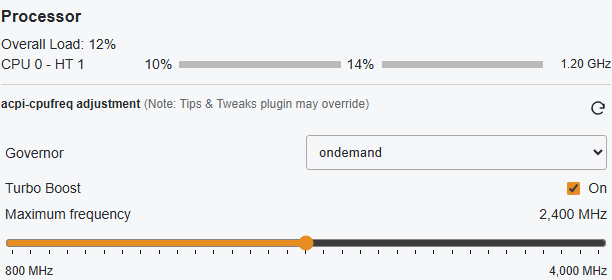
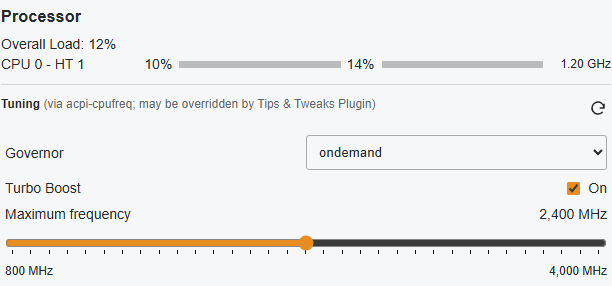
Refine Tuning heading and restore modest bottom padding

diff --git a/src/styles/power-mode.css b/src/styles/power-mode.css
@@ -1,5 +1,5 @@
 /* SPDX-License-Identifier: GPL-2.0-only */
-#dashboard-power-mode .dpm-body { padding: 4px 4px 0; white-space: normal; }
+#dashboard-power-mode .dpm-body { padding: 4px 4px 6px; white-space: normal; }
 #dashboard-power-mode button { cursor: pointer; margin: 0; }
 #dashboard-power-mode button:disabled { cursor: default; }
 #dashboard-power-mode .tile-header { display: flex; justify-content: space-between; align-items: flex-start; gap: 8px; }
@@ -29,5 +29,5 @@
 .dpm-cpu-metric > .usage-disk { flex: 1 1 auto; min-width: 10px; width: auto !important; margin: 0 !important; }
 .dpm-cpu-ghz { flex: 0 0 8ch; font-size: 12px; text-align: right; white-space: nowrap; font-variant-numeric: tabular-nums; }
 
-#dashboard-power-mode [data-dpm="hardware"] { font-weight: bold; }
+#dashboard-power-mode .dpm-heading strong { font-weight: bold; }
 .dpm-adjustments-row > td { padding-bottom: 0 !important; }

diff --git a/src/javascript/power-mode.js b/src/javascript/power-mode.js
@@ -65,7 +65,7 @@
     const message = (text) => { el('message').textContent = text; el('message').hidden = !text; };
     function render(next) {
       state = next;
-      el('hardware').textContent = next.drivers.length ? `${next.drivers.join(', ')} adjustment` : 'CPU adjustment';
+      el('hardware').textContent = next.drivers.length ? `via ${next.drivers.join(', ')}` : 'via CPU frequency driver';
       el('governor').replaceChildren();
       if (next.governor === null) el('governor').add(new Option('Mixed / unavailable', '', true, true));
       next.governors.forEach((governor) => el('governor').add(new Option(governor, governor, false, next.governor === governor)));

diff --git a/tests/dashboard.py b/tests/dashboard.py
@@ -86,12 +86,12 @@ with sync_playwright() as p:
     assert not posts
     expect(message).to_be_hidden()
     notice = card.locator('[data-dpm="conflict"]')
-    expect(notice).to_have_text('(Note: Tips & Tweaks plugin may override)')
+    expect(notice).to_have_text('; may be overridden by Tips & Tweaks Plugin')
     expect(notice).to_be_visible()
     assert card.locator('.dpm-heading [data-dpm="conflict"]').count() == 1
     assert card.locator('.tile-header-right-controls [data-dpm="refresh"]').count() == 1
     assert card.locator('.dpm-body [data-dpm="refresh"], .dpm-warning').count() == 0
-    expect(card.locator('[data-dpm="hardware"]')).to_have_text('acpi-cpufreq adjustment')
+    expect(card.locator('[data-dpm="hardware"]')).to_have_text('via acpi-cpufreq')
     assert card.evaluate('el => el.closest("tbody").id') == 'synthetic-processor'
     assert page.locator('tbody#dashboard-power-mode').count() == 0
     expect(page.locator('.dpm-cpu-ghz[data-cpu="0"]')).to_have_text('1.20 GHz')

diff --git a/build.py b/build.py
@@ -7,7 +7,7 @@ import xml.etree.ElementTree as ET
 
 ROOT = Path(__file__).resolve().parent
 NAME = 'dashboard-power-mode'
-VERSION = '2026.11.16.1'
+VERSION = '2026.11.16.2'
 TARGET = f'/usr/local/emhttp/plugins/{NAME}'
 URL = f'https://raw.githubusercontent.com/johnngone/{NAME}-unraid/main/plugin/{NAME}.plg'
 
